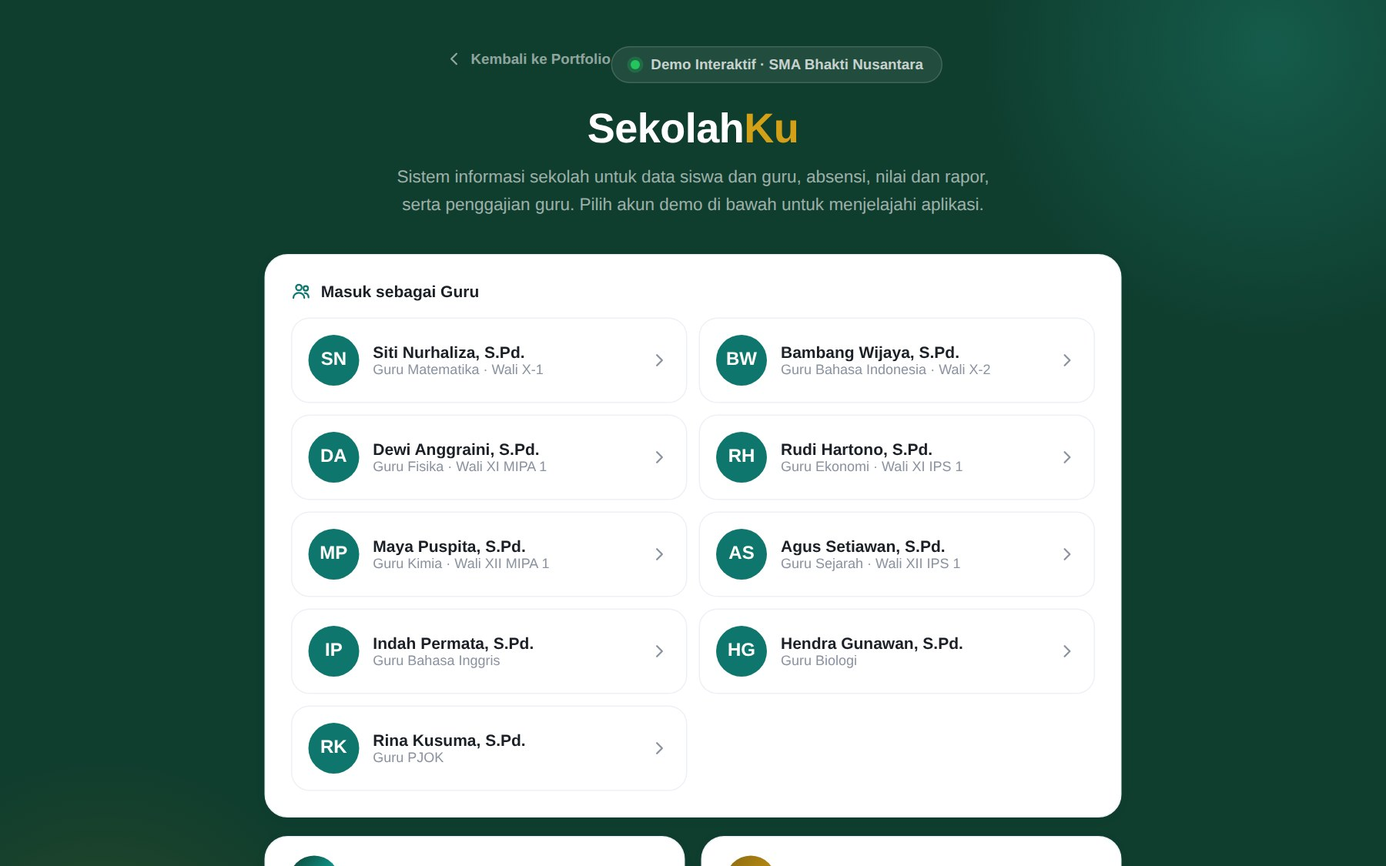
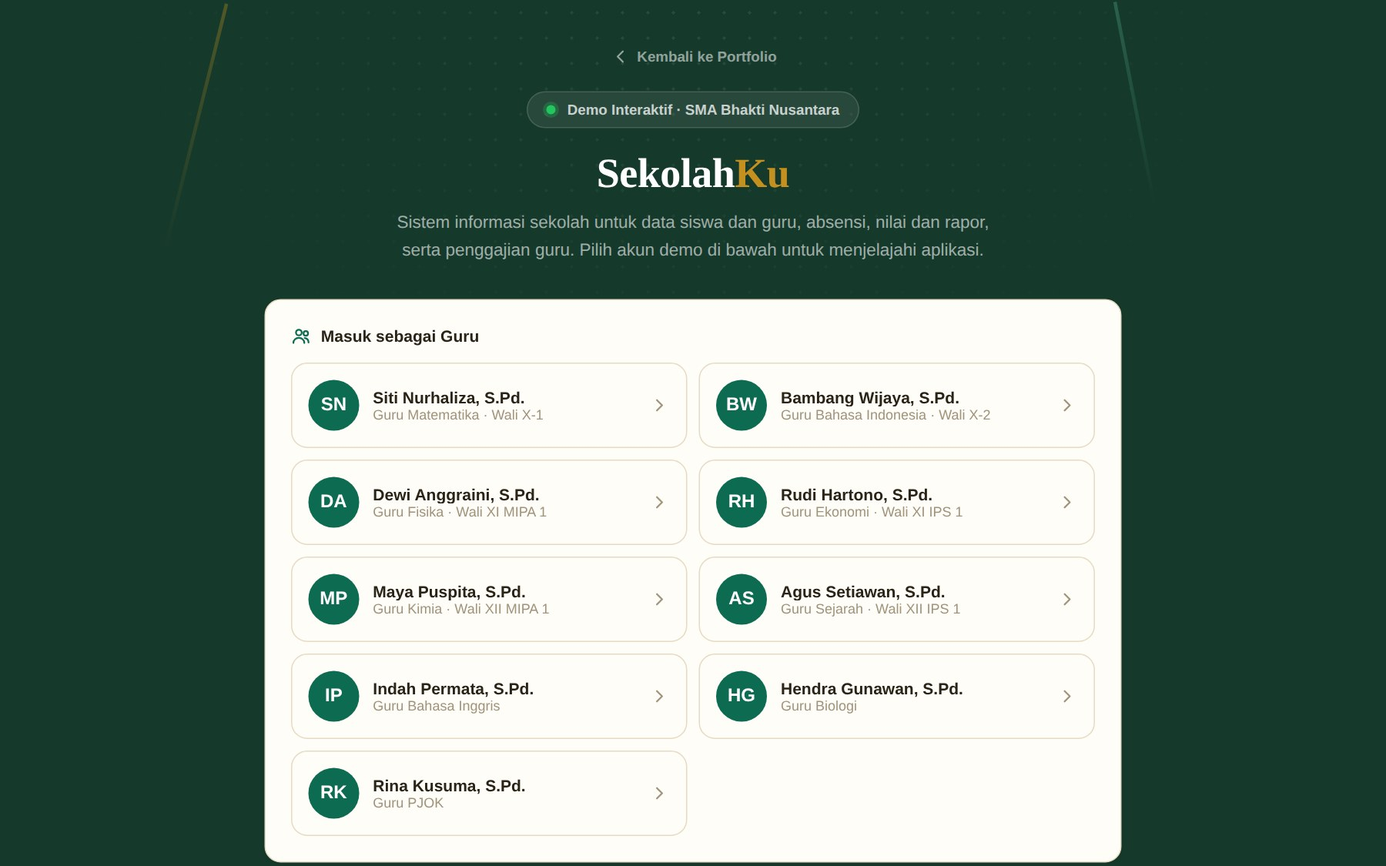
update

Changed region(s): [[0.1867, 0.0311, 0.8089, 1.0], [0.84, 0.0, 0.9956, 0.1867]]

diff --git a/demo/school-system/index.html b/demo/school-system/index.html
@@ -7,30 +7,30 @@
 <title>SekolahKu - SMA Bhakti Nusantara</title>
 <meta name="description" content="Demo sistem informasi sekolah SekolahKu untuk SMA Bhakti Nusantara. Data siswa dan guru, absensi, nilai dan rapor, penggajian guru, serta dashboard kepala sekolah.">
 <script src="https://cdn.jsdelivr.net/npm/chart.js"></script>
-<link href="https://fonts.googleapis.com/css2?family=Plus+Jakarta+Sans:ital,wght@0,300;0,400;0,500;0,600;0,700;0,800;1,400&family=Sora:wght@500;600;700;800&display=swap" rel="stylesheet">
+<link href="https://fonts.googleapis.com/css2?family=Figtree:ital,wght@0,300;0,400;0,500;0,600;0,700;0,800;1,400&family=Fraunces:opsz,wght@9..144,500;9..144,600;9..144,700;9..144,800&display=swap" rel="stylesheet">
 <style>
 :root {
-  --ink:#1b2027; --ink-soft:#565f6d; --muted:#8a92a0; --line:#e3e7ee; --line-soft:#edf0f5;
-  --surface:#ffffff; --bg:#f6f7fb; --bg-tint:#eef1fb;
-  --forest:#0f3d2e; --primary:#0f766e; --primary-2:#0d9488; --primary-3:#2dd4bf;
-  --primary-wash:#e8f7f5; --primary-wash-2:#d7f2ee;
-  --gold:#b8860b; --gold-soft:#d4a017; --gold-pale:#f7ecd0;
+  --ink:#2a2418; --ink-soft:#6b5d47; --muted:#a0937b; --line:#e6dac2; --line-soft:#f1e8d6;
+  --surface:#fffdf8; --bg:#f5efe1; --bg-tint:#ece0c6;
+  --forest:#15392b; --primary:#0d6b52; --primary-2:#0f8a68; --primary-3:#5cbd9a;
+  --primary-wash:#e6f3ec; --primary-wash-2:#d1ead9;
+  --gold:#a06f13; --gold-soft:#c4901f; --gold-pale:#f5e6c4;
   --ok:#15803d; --ok-bg:#e9f7ee; --ok-soft:#22c55e;
   --warn:#b45309; --warn-bg:#fef3e2; --warn-soft:#f59e0b;
   --danger:#b91c1c; --danger-bg:#fdedec; --danger-soft:#ef4444;
   --info:#0369a1; --info-bg:#e6f4fb;
   --grad-primary:linear-gradient(135deg,var(--forest),var(--primary-2) 55%,var(--primary-3));
-  --grad-gold:linear-gradient(135deg,#8a6a10,var(--gold-soft));
-  --shadow-sm:0 2px 8px rgba(15,61,46,0.07);
-  --shadow-md:0 8px 24px rgba(15,61,46,0.10);
-  --shadow-lg:0 20px 48px rgba(15,61,46,0.16);
-  --shadow-primary:0 10px 24px rgba(13,148,136,0.30);
-  --r-sm:10px; --r-md:14px; --r-lg:20px; --r-pill:999px;
+  --grad-gold:linear-gradient(135deg,#7a5209,var(--gold-soft));
+  --shadow-sm:0 1px 3px rgba(42,36,24,0.06);
+  --shadow-md:0 6px 18px rgba(42,36,24,0.09);
+  --shadow-lg:0 18px 42px rgba(21,57,43,0.18);
+  --shadow-primary:0 10px 22px rgba(13,107,82,0.28);
+  --r-sm:6px; --r-md:9px; --r-lg:14px; --r-pill:999px;
 }
 * { box-sizing:border-box; }
 html { scroll-behavior:smooth; }
-body { font-family:'Plus Jakarta Sans', sans-serif; background:var(--bg); color:var(--ink); margin:0; -webkit-font-smoothing:antialiased; }
-.font-display { font-family:'Sora', sans-serif; }
+body { font-family:'Figtree', sans-serif; background:var(--bg); color:var(--ink); margin:0; -webkit-font-smoothing:antialiased; }
+.font-display { font-family:'Fraunces', serif; font-optical-sizing:auto; }
 ::selection { background:var(--primary-wash-2); color:var(--forest); }
 ::-webkit-scrollbar { width:6px; height:6px; }
 ::-webkit-scrollbar-thumb { background:var(--primary-3); border-radius:4px; }
@@ -43,7 +43,7 @@ body { font-family:'Plus Jakarta Sans', sans-serif; background:var(--bg); color:
 @keyframes icspin { to { transform:rotate(360deg); } }
 
 .wrap { max-width:1180px; margin:0 auto; padding:0 20px; }
-.card-surface { background:var(--surface); border:1px solid var(--line-soft); border-radius:var(--r-lg); box-shadow:var(--shadow-sm); }
+.card-surface { background:var(--surface); border:1.5px solid var(--line); border-radius:var(--r-lg); box-shadow:var(--shadow-sm); }
 .fade-in { animation:fadeIn 0.35s ease both; }
 @keyframes fadeIn { from{opacity:0;transform:translateY(6px);} to{opacity:1;transform:translateY(0);} }
 
@@ -65,16 +65,32 @@ body { font-family:'Plus Jakarta Sans', sans-serif; background:var(--bg); color:
 .btn-icon { width:38px;height:38px;border-radius:50%;border:1.5px solid var(--line-soft);background:var(--surface);display:flex;align-items:center;justify-content:center;cursor:pointer;color:var(--ink-soft);transition:all 0.2s;padding:0;flex-shrink:0; }
 .btn-icon:hover { border-color:var(--primary-3);color:var(--primary); }
 
-.topbar { position:sticky;top:0;z-index:40;background:rgba(255,255,255,0.92);backdrop-filter:blur(10px);border-bottom:1px solid var(--line-soft); }
-.tab-row { display:flex;gap:4px;overflow-x:auto;scrollbar-width:none;-ms-overflow-style:none; }
-.tab-row::-webkit-scrollbar { display:none; }
-.tab-btn { display:inline-flex;align-items:center;gap:7px;padding:9px 15px;border-radius:var(--r-pill);font-size:13.5px;font-weight:700;color:var(--ink-soft);background:transparent;border:none;cursor:pointer;white-space:nowrap;transition:all 0.2s;font-family:inherit; }
-.tab-btn:hover:not(.active) { background:var(--bg-tint);color:var(--primary); }
-.tab-btn.active { background:var(--grad-primary);color:#fff;box-shadow:0 4px 14px rgba(13,148,136,0.3); }
+.topbar { position:sticky;top:0;z-index:40;background:var(--forest);border-bottom:1px solid rgba(255,255,255,0.08); }
+.topbar-sep { width:1px;align-self:stretch;background:rgba(255,255,255,0.14);flex-shrink:0;margin:2px 0; }
+.topbar-link { display:flex;align-items:center;gap:9px;text-decoration:none;color:#fff;flex-shrink:0; }
+.topbar-mark { width:32px;height:32px;border-radius:8px;background:rgba(255,255,255,0.1);border:1px solid rgba(255,255,255,0.16);display:flex;align-items:center;justify-content:center;color:var(--gold-soft);flex-shrink:0; }
+.topbar-nav { display:flex;gap:2px;overflow-x:auto;scrollbar-width:none;-ms-overflow-style:none; }
+.topbar-nav::-webkit-scrollbar { display:none; }
+.tab-btn { display:inline-flex;align-items:center;gap:6px;padding:9px 13px 8px;border-radius:0;font-size:13px;font-weight:600;color:rgba(255,255,255,0.62);background:transparent;border:none;border-bottom:2.5px solid transparent;cursor:pointer;white-space:nowrap;transition:all 0.2s;font-family:inherit; }
+.tab-btn:hover:not(.active) { color:#fff; }
+.tab-btn.active { color:#fff;font-weight:700;border-bottom-color:var(--gold-soft); }
+.topbar-name { font-weight:700;font-size:12.5px;line-height:1.2;white-space:nowrap;max-width:26vw;overflow:hidden;text-overflow:ellipsis;color:#fff; }
+.topbar-role { font-size:10.5px;line-height:1.2;white-space:nowrap;max-width:26vw;overflow:hidden;text-overflow:ellipsis;color:rgba(255,255,255,0.55); }
+.topbar .btn-icon { border-color:rgba(255,255,255,0.18);background:transparent;color:rgba(255,255,255,0.7); }
+.topbar .btn-icon:hover { border-color:var(--gold-soft);color:var(--gold-soft); }
+.topbar .avatar { box-shadow:0 0 0 2px rgba(255,255,255,0.22); }
+@media (max-width:900px) {
+  .topbar-user-text { display:none; }
+}
+@media (max-width:640px) {
+  .topbar-wordmark, .topbar-sep { display:none; }
+  .topbar .tab-btn .tab-label { display:none; }
+  .topbar .tab-btn { padding:9px 10px; }
+}
 
-.stat-tile { background:var(--surface);border:1px solid var(--line-soft);border-radius:var(--r-lg);padding:18px;box-shadow:var(--shadow-sm);position:relative;overflow:hidden; }
-.stat-tile::after { content:'';position:absolute;top:0;left:0;right:0;height:3px;background:var(--accent,var(--grad-primary)); }
-.stat-icon-badge { width:42px;height:42px;border-radius:12px;display:flex;align-items:center;justify-content:center;flex-shrink:0; }
+.stat-tile { background:var(--surface);border:1px solid var(--line);border-radius:var(--r-lg);padding:18px 18px 18px 22px;box-shadow:var(--shadow-sm);position:relative;overflow:hidden; }
+.stat-tile::after { content:'';position:absolute;top:0;left:0;bottom:0;width:4px;background:var(--accent,var(--grad-primary)); }
+.stat-icon-badge { width:42px;height:42px;border-radius:11px;display:flex;align-items:center;justify-content:center;flex-shrink:0; }
 
 .badge { display:inline-flex;align-items:center;gap:5px;padding:4px 11px;border-radius:var(--r-pill);font-size:11.5px;font-weight:700;letter-spacing:0.01em; }
 .badge-ok { background:var(--ok-bg);color:var(--ok); }
@@ -102,14 +118,14 @@ label.lbl { font-size:12.5px;font-weight:700;color:var(--ink-soft);display:block
 
 .avatar { width:40px;height:40px;border-radius:50%;display:flex;align-items:center;justify-content:center;font-weight:800;font-size:14px;color:#fff;flex-shrink:0; }
 
-.hero-card { background:var(--grad-primary);border-radius:24px;padding:28px 24px;color:#fff;position:relative;overflow:hidden;box-shadow:var(--shadow-lg); }
-.hero-card::before { content:'';position:absolute;width:280px;height:280px;border-radius:50%;background:rgba(255,255,255,0.06);top:-120px;right:-80px; }
-.hero-card::after { content:'';position:absolute;width:180px;height:180px;border-radius:50%;background:rgba(255,255,255,0.05);bottom:-90px;left:-40px; }
+.hero-card { background:var(--grad-primary);border-radius:var(--r-lg);padding:28px 24px;color:#fff;position:relative;overflow:hidden;box-shadow:var(--shadow-lg); }
+.hero-card::before { content:'';position:absolute;inset:0;background-image:radial-gradient(circle,rgba(255,255,255,0.18) 1.4px,transparent 1.4px);background-size:15px 15px;-webkit-mask-image:linear-gradient(120deg,transparent 38%,#000 92%);mask-image:linear-gradient(120deg,transparent 38%,#000 92%); }
+.hero-card::after { content:'';position:absolute;width:3px;height:56%;background:rgba(196,144,31,0.4);right:9%;top:22%;transform:rotate(11deg);border-radius:2px; }
 
 .modal-backdrop { position:fixed;inset:0;background:rgba(15,32,26,0.55);backdrop-filter:blur(2px);z-index:100;display:flex;align-items:center;justify-content:center;padding:16px;animation:fadeIn 0.2s ease; }
 .modal-box { background:var(--surface);border-radius:var(--r-lg);max-width:520px;width:100%;max-height:90vh;overflow-y:auto;box-shadow:var(--shadow-lg); }
 
-#toast-wrap { position:fixed;top:86px;right:18px;z-index:200;display:flex;flex-direction:column;gap:10px;max-width:calc(100vw - 36px); }
+#toast-wrap { position:fixed;bottom:22px;right:18px;z-index:200;display:flex;flex-direction:column;gap:10px;max-width:calc(100vw - 36px); }
 .toast { background:var(--forest);color:#fff;padding:13px 18px;border-radius:12px;font-size:13.5px;font-weight:600;box-shadow:var(--shadow-lg);display:flex;align-items:center;gap:10px;animation:toastIn 0.3s ease both;max-width:340px; }
 .toast.ok { background:linear-gradient(135deg,#166534,#22c55e); }
 .toast.warn { background:linear-gradient(135deg,#92400e,#f59e0b); }
@@ -356,7 +372,6 @@ function seedIfNeeded() {
       var day = addDays(today, -back);
       if (isWeekend(day)) continue;
       var iso = fmtDateISO(day);
-      if (iso === todayIso && g.id !== 'G9') continue; /* sisakan hari ini kosong utk sesi demo, kecuali satu contoh */
       var r = seededRand(g.id + iso + 'ag');
       var status, jamMasuk;
       if (r < 0.04) { status = 'Alpha'; jamMasuk = null; }
@@ -377,7 +392,10 @@ function seedIfNeeded() {
   });
   localStorage.setItem('sekolahku_absensi_guru', JSON.stringify(absGuru));
 
-  /* --- nilai: tugas & uts terisi, uas belum (baru pertengahan semester) --- */
+  /* --- nilai: tugas, uts, dan uas terisi penuh agar rapor & dashboard akademik langsung
+     menunjukkan data lengkap. Kelas X-1 sengaja disisakan tanpa UAS pada mapel Matematika
+     saja, supaya pengunjung yang login sebagai wali kelasnya (Siti Nurhaliza) tetap bisa
+     mencoba fitur input nilai secara langsung dan melihat nilai akhir terhitung otomatis. --- */
   var nilai = [];
   KELAS.forEach(function(k) {
     var mapels = mapelForKelas(k.id);
@@ -387,7 +405,9 @@ function seedIfNeeded() {
         var seed = s.id + m.mapelId;
         var tugas = 70 + Math.floor(seededRand(seed+'t') * 28);
         var uts = 65 + Math.floor(seededRand(seed+'u') * 32);
-        nilai.push({ id: uid('NL'), siswaId: s.id, kelasId: k.id, mapelId: m.mapelId, guruId: m.guruId, tahunAjaran: SCHOOL.tahunAjaran, semester: SCHOOL.semester, tugas: tugas, uts: uts, uas: null });
+        var uas = 70 + Math.floor(seededRand(seed+'a') * 28);
+        var isDemoKosong = (k.id === 'K1' && m.mapelId === 'M1');
+        nilai.push({ id: uid('NL'), siswaId: s.id, kelasId: k.id, mapelId: m.mapelId, guruId: m.guruId, tahunAjaran: SCHOOL.tahunAjaran, semester: SCHOOL.semester, tugas: tugas, uts: uts, uas: isDemoKosong ? null : uas });
       });
     });
   });
@@ -597,19 +617,20 @@ function closeModal() { document.getElementById('modal-root').innerHTML = ''; sl
 function buildLogin() {
   var guruCards = GURU.map(function(g) {
     var wk = isWaliKelas(g.id);
-    return '<button onclick="loginAsGuru(\'' + g.id + '\')" style="text-align:left;background:var(--surface);border:1.5px solid var(--line-soft);border-radius:16px;padding:14px;display:flex;align-items:center;gap:12px;cursor:pointer;transition:all 0.2s;font-family:inherit;width:100%;" onmouseover="this.style.borderColor=\'var(--primary-3)\';this.style.boxShadow=\'var(--shadow-md)\';this.style.transform=\'translateY(-2px)\';" onmouseout="this.style.borderColor=\'var(--line-soft)\';this.style.boxShadow=\'none\';this.style.transform=\'none\';">' +
+    return '<button onclick="loginAsGuru(\'' + g.id + '\')" style="text-align:left;background:var(--surface);border:1.5px solid var(--line);border-radius:var(--r-lg);padding:14px;display:flex;align-items:center;gap:12px;cursor:pointer;transition:all 0.2s;font-family:inherit;width:100%;" onmouseover="this.style.borderColor=\'var(--primary-3)\';this.style.boxShadow=\'var(--shadow-md)\';this.style.transform=\'translateY(-2px)\';" onmouseout="this.style.borderColor=\'var(--line)\';this.style.boxShadow=\'none\';this.style.transform=\'none\';">' +
       avatarHtml(g, 44) +
       '<div style="min-width:0;flex:1;"><div style="font-weight:700;font-size:14px;color:var(--ink);white-space:nowrap;overflow:hidden;text-overflow:ellipsis;">' + escapeHtml(g.nama) + '</div><div style="font-size:12px;color:var(--muted);white-space:nowrap;overflow:hidden;text-overflow:ellipsis;">' + escapeHtml(g.gelar) + (wk ? ' &middot; Wali ' + wk.nama : '') + '</div></div>' +
       icon('chevronR', 'ic-muted') +
       '</button>';
   }).join('');
   return '<div style="min-height:100vh;background:var(--forest);position:relative;overflow:hidden;display:flex;align-items:center;padding:40px 0;">' +
-    '<div style="position:absolute;width:520px;height:520px;border-radius:50%;background:radial-gradient(circle,rgba(45,212,191,0.20),transparent 70%);top:-220px;right:-160px;"></div>' +
-    '<div style="position:absolute;width:420px;height:420px;border-radius:50%;background:radial-gradient(circle,rgba(184,134,11,0.16),transparent 70%);bottom:-180px;left:-120px;"></div>' +
+    '<div style="position:absolute;inset:0;background-image:radial-gradient(circle,rgba(255,255,255,0.09) 1.4px,transparent 1.4px);background-size:22px 22px;-webkit-mask-image:radial-gradient(ellipse 60% 55% at 50% 0%,#000 0%,transparent 72%);mask-image:radial-gradient(ellipse 60% 55% at 50% 0%,#000 0%,transparent 72%);"></div>' +
+    '<div style="position:absolute;width:3px;height:220px;background:linear-gradient(rgba(196,144,31,0.35),transparent);top:0;left:14%;transform:rotate(14deg);"></div>' +
+    '<div style="position:absolute;width:3px;height:180px;background:linear-gradient(rgba(92,189,154,0.3),transparent);top:0;right:18%;transform:rotate(-11deg);"></div>' +
     '<div class="wrap" style="position:relative;z-index:1;">' +
     '<div style="max-width:920px;margin:0 auto;">' +
     '<div style="text-align:center;margin-bottom:30px;">' +
-    '<a href="https://bagasaria93.github.io" style="display:inline-flex;align-items:center;gap:6px;color:rgba(255,255,255,0.55);font-size:12.5px;font-weight:600;text-decoration:none;margin-bottom:22px;">' + icon('chevronL') + ' Kembali ke Portfolio</a>' +
+    '<div style="margin-bottom:16px;"><a href="https://bagasaria93.github.io" style="display:inline-flex;align-items:center;gap:6px;color:rgba(255,255,255,0.55);font-size:12.5px;font-weight:600;text-decoration:none;">' + icon('chevronL') + ' Kembali ke Portfolio</a></div>' +
     '<div style="display:inline-flex;align-items:center;gap:10px;background:rgba(255,255,255,0.08);border:1px solid rgba(255,255,255,0.14);padding:8px 16px;border-radius:99px;margin-bottom:18px;">' +
     '<span style="width:8px;height:8px;border-radius:50%;background:#22c55e;display:inline-block;box-shadow:0 0 0 3px rgba(34,197,94,0.25);"></span>' +
     '<span style="color:rgba(255,255,255,0.75);font-size:12.5px;font-weight:600;">Demo Interaktif &middot; ' + SCHOOL.nama + '</span></div>' +
@@ -647,27 +668,28 @@ function buildTopbar() {
   var tabs = tabsByRole[state.role];
   var subtitle = state.role === 'admin' ? user.gelar : (state.role === 'kepsek' ? user.gelar : user.gelar);
   var tabsHtml = tabs.map(function(t) {
-    return '<button class="tab-btn ' + (state.tab === t[0] ? 'active' : '') + '" onclick="setTab(\'' + t[0] + '\')">' + icon(t[1]) + '<span>' + t[2] + '</span></button>';
+    return '<button class="tab-btn ' + (state.tab === t[0] ? 'active' : '') + '" onclick="setTab(\'' + t[0] + '\')">' + icon(t[1]) + '<span class="tab-label">' + t[2] + '</span></button>';
   }).join('');
   return '<div class="topbar">' +
-    '<div class="wrap" style="padding-top:14px;padding-bottom:0;">' +
-    '<div style="display:flex;align-items:center;justify-content:space-between;gap:12px;margin-bottom:12px;">' +
-    '<a href="https://bagasaria93.github.io" style="display:flex;align-items:center;gap:9px;text-decoration:none;color:var(--ink);">' +
-    '<div style="width:34px;height:34px;border-radius:10px;background:var(--grad-primary);display:flex;align-items:center;justify-content:center;color:#fff;flex-shrink:0;">' + icon('school') + '</div>' +
-    '<span class="font-display" style="font-weight:800;font-size:16.5px;">Sekolah<span style="color:var(--primary);">Ku</span></span>' +
+    '<div class="wrap" style="padding-top:11px;padding-bottom:11px;">' +
+    '<div style="display:flex;align-items:center;gap:16px;">' +
+    '<a href="https://bagasaria93.github.io" class="topbar-link">' +
+    '<div class="topbar-mark">' + icon('school') + '</div>' +
+    '<span class="font-display topbar-wordmark" style="font-weight:700;font-size:16px;">Sekolah<span style="color:var(--gold-soft);">Ku</span></span>' +
     '</a>' +
-    '<div style="display:flex;align-items:center;gap:10px;">' +
-    '<div style="display:flex;align-items:center;gap:9px;">' +
-    avatarHtml(user, 34) +
-    '<div style="text-align:right;">' +
-    '<div style="font-weight:700;font-size:13px;line-height:1.2;white-space:nowrap;max-width:38vw;overflow:hidden;text-overflow:ellipsis;">' + escapeHtml(user.nama) + '</div>' +
-    '<div style="font-size:11px;color:var(--muted);line-height:1.2;">' + escapeHtml(subtitle) + '</div>' +
+    '<div class="topbar-sep"></div>' +
+    '<nav class="topbar-nav" style="flex:1;min-width:0;">' + tabsHtml + '</nav>' +
+    '<div style="display:flex;align-items:center;gap:10px;flex-shrink:0;">' +
+    '<div class="topbar-user" style="display:flex;align-items:center;gap:9px;">' +
+    avatarHtml(user, 32) +
+    '<div class="topbar-user-text" style="text-align:right;">' +
+    '<div class="topbar-name">' + escapeHtml(user.nama) + '</div>' +
+    '<div class="topbar-role">' + escapeHtml(subtitle) + '</div>' +
     '</div>' +
     '</div>' +
     '<button class="btn-icon" onclick="logout()" title="Keluar">' + icon('logout') + '</button>' +
     '</div>' +
     '</div>' +
-    '<div class="tab-row" style="padding-bottom:11px;">' + tabsHtml + '</div>' +
     '</div></div>';
 }
 function buildFooter() {
@@ -682,16 +704,17 @@ function buildFooter() {
 function buildGuruBeranda() {
   var g = state.currentUser;
   var wk = isWaliKelas(g.id);
-  var todayIso = fmtDateISO(new Date());
   var jadwalRows = g.jadwal.map(function(j) {
     var k = getKelas(j.kelasId), m = getMapel(j.mapelId);
     return '<tr><td><span style="display:inline-flex;align-items:center;gap:8px;"><span style="width:8px;height:8px;border-radius:50%;background:' + kelasColor(k) + ';display:inline-block;"></span>' + escapeHtml(k.nama) + '</span></td><td>' + escapeHtml(m.nama) + '</td><td>' + j.jp + ' JP/minggu</td></tr>';
   }).join('');
 
   var absGuru = getAbsensiGuru().filter(function(a){ return a.guruId === g.id; });
-  var thisMonth = absGuru.filter(function(a){ return a.tanggal.slice(0,7) === todayIso.slice(0,7); });
-  var hadirCount = thisMonth.filter(function(a){ return a.status === 'Hadir' || a.status === 'Terlambat'; }).length;
-  var telatCount = thisMonth.filter(function(a){ return a.status === 'Terlambat'; }).length;
+  var last30 = [];
+  for (var bi = 29; bi >= 0; bi--) { last30.push(fmtDateISO(addDays(new Date(), -bi))); }
+  var recent = absGuru.filter(function(a){ return last30.indexOf(a.tanggal) !== -1; });
+  var hadirCount = recent.filter(function(a){ return a.status === 'Hadir' || a.status === 'Terlambat'; }).length;
+  var telatCount = recent.filter(function(a){ return a.status === 'Terlambat'; }).length;
 
   var statTile = function(label, value, iconName, accent) {
     return '<div class="stat-tile" style="--accent:' + accent + ';">' +
@@ -712,8 +735,8 @@ function buildGuruBeranda() {
     '<div><div style="color:rgba(255,255,255,0.6);font-size:11px;font-weight:700;text-transform:uppercase;">Kelas Diampu</div><div style="color:#fff;font-weight:800;font-size:20px;">' + kelasOfGuru(g.id).length + ' kelas</div></div>' +
     '</div></div></div>' +
     '<div class="stat-grid-4" style="display:grid;grid-template-columns:repeat(2,1fr);gap:14px;margin-bottom:18px;">' +
-    statTile('Hadir Mengajar Bulan Ini', hadirCount, 'checkCircle', '#15803d') +
-    statTile('Terlambat', telatCount, 'bell', '#b45309') +
+    statTile('Hadir Mengajar (30 Hari)', hadirCount, 'checkCircle', '#15803d') +
+    statTile('Terlambat (30 Hari)', telatCount, 'bell', '#b45309') +
     '</div>' +
     '<div class="card-surface" style="padding:20px;">' +
     '<div style="display:flex;align-items:center;gap:9px;margin-bottom:14px;">' + icon('calendar','ic-primary') + '<span style="font-weight:800;font-size:14.5px;">Jadwal Mengajar</span></div>' +
@@ -867,7 +890,13 @@ function buildGuruSlipGaji() {
   var bulanLabel = BULAN_ID[d.getMonth()] + ' ' + d.getFullYear();
   var gs = getGajiStatus();
   var status = gs[g.id + '_' + state.gajiBulan] || 'Belum Dibayar';
-  return '<div class="fade-in" style="max-width:480px;">' +
+
+  var jadwalRows = g.jadwal.map(function(j) {
+    var k = getKelas(j.kelasId), m = getMapel(j.mapelId);
+    return '<tr><td><span style="display:inline-flex;align-items:center;gap:8px;"><span style="width:8px;height:8px;border-radius:50%;background:' + kelasColor(k) + ';display:inline-block;"></span>' + escapeHtml(k.nama) + '</span></td><td>' + escapeHtml(m.nama) + '</td><td style="text-align:right;">' + j.jp + ' JP</td></tr>';
+  }).join('');
+
+  return '<div class="fade-in split-grid" style="grid-template-columns:1.05fr 0.95fr;align-items:start;">' +
     '<div class="card-surface" style="padding:22px;">' +
     '<div style="display:flex;align-items:center;justify-content:space-between;gap:10px;margin-bottom:4px;">' +
     '<div style="display:flex;align-items:center;gap:6px;"><button class="btn-icon" onclick="changeGajiBulan(-1)">' + icon('chevronL') + '</button><span style="font-weight:800;font-size:14.5px;min-width:130px;text-align:center;">' + bulanLabel + '</span><button class="btn-icon" onclick="changeGajiBulan(1)">' + icon('chevronR') + '</button></div>' +
@@ -887,7 +916,22 @@ function buildGuruSlipGaji() {
     rowGaji('Gaji Bersih Diterima', fmtRupiah(gaji.bersih), true, true) +
     '</div>' +
     '<button class="btn btn-secondary btn-block" style="margin-top:18px;" onclick="window.print()">' + icon('print') + ' Cetak Slip Gaji</button>' +
-    '</div></div>';
+    '</div>' +
+    '<div class="card-surface" style="padding:22px;">' +
+    '<div style="display:flex;align-items:center;gap:9px;margin-bottom:14px;">' + icon('calendar','ic-primary') + '<span style="font-weight:800;font-size:14.5px;">Rincian Jam Mengajar</span></div>' +
+    '<div class="tbl-wrap"><table class="tbl"><thead><tr><th>Kelas</th><th>Mata Pelajaran</th><th style="text-align:right;">Beban</th></tr></thead><tbody>' + jadwalRows + '</tbody></table></div>' +
+    '<div class="divider" style="margin:14px 0;"></div>' +
+    '<div style="display:flex;align-items:center;justify-content:space-between;font-size:13.5px;">' +
+    '<span style="color:var(--ink-soft);">Total Beban Mengajar</span>' +
+    '<span style="font-weight:800;">' + gaji.jp + ' JP/minggu</span>' +
+    '</div>' +
+    '<div style="display:flex;align-items:center;justify-content:space-between;font-size:13.5px;margin-top:8px;">' +
+    '<span style="color:var(--ink-soft);">Tarif per Jam Pelajaran</span>' +
+    '<span style="font-weight:800;">' + fmtRupiah(RATE_PER_JAM()) + '</span>' +
+    '</div>' +
+    '<p style="font-size:11.5px;color:var(--muted);margin-top:14px;">Tunjangan jam mengajar dihitung dari total beban mengajar per minggu dikali 4 minggu dikali tarif per jam pelajaran.</p>' +
+    '</div>' +
+    '</div>';
 }
 
 /* ============================= ADMIN: RINGKASAN ============================= */
@@ -1272,6 +1316,7 @@ function renderCharts() {
 
 /* ============================= MAIN RENDER ============================= */
 function render() {
+  window.scrollTo(0, 0);
   var app = document.getElementById('app');
   if (state.view === 'login') { app.innerHTML = buildLogin() + '<div id="modal-root"></div>'; return; }
   var body = '';

diff --git a/demo/attendance-system/index.html b/demo/attendance-system/index.html
@@ -71,9 +71,19 @@ body { font-family:'Plus Jakarta Sans', sans-serif; background:var(--bg); color:
 .topbar { position:sticky;top:0;z-index:40;background:rgba(255,255,255,0.92);backdrop-filter:blur(10px);border-bottom:1px solid var(--line-soft); }
 .tab-row { display:flex;gap:4px;overflow-x:auto;scrollbar-width:none;-ms-overflow-style:none; }
 .tab-row::-webkit-scrollbar { display:none; }
-.tab-btn { display:inline-flex;align-items:center;gap:7px;padding:9px 15px;border-radius:var(--r-pill);font-size:13.5px;font-weight:700;color:var(--ink-soft);background:transparent;border:none;cursor:pointer;white-space:nowrap;transition:all 0.2s;font-family:inherit; }
-.tab-btn:hover:not(.active) { background:var(--bg-tint);color:var(--primary); }
-.tab-btn.active { background:var(--grad-primary);color:#fff;box-shadow:0 4px 14px rgba(55,48,163,0.3); }
+.tab-group { display:flex;align-items:center;gap:2px;background:var(--bg-tint);border-radius:var(--r-pill);padding:4px;overflow-x:auto;scrollbar-width:none;-ms-overflow-style:none; }
+.tab-group::-webkit-scrollbar { display:none; }
+.tab-btn { display:inline-flex;align-items:center;gap:6px;padding:7px 13px;border-radius:var(--r-pill);font-size:12.5px;font-weight:700;color:var(--ink-soft);background:transparent;border:none;cursor:pointer;white-space:nowrap;transition:all 0.2s;font-family:inherit; }
+.tab-btn:hover:not(.active) { color:var(--primary); }
+.tab-btn.active { background:var(--surface);color:var(--primary);box-shadow:var(--shadow-sm); }
+@media (max-width:900px) {
+  .topbar-user-text { display:none; }
+}
+@media (max-width:640px) {
+  .topbar-wordmark { display:none; }
+  .topbar .tab-btn .tab-label { display:none; }
+  .topbar .tab-btn { padding:8px 9px; }
+}
 
 /* ---- stat tiles ---- */
 .stat-tile { background:var(--surface);border:1px solid var(--line-soft);border-radius:var(--r-lg);padding:18px;box-shadow:var(--shadow-sm);position:relative;overflow:hidden; }
@@ -126,7 +136,7 @@ label.lbl { font-size:12.5px;font-weight:700;color:var(--ink-soft);display:block
 .modal-box { background:var(--surface);border-radius:var(--r-lg);max-width:480px;width:100%;max-height:90vh;overflow-y:auto;box-shadow:var(--shadow-lg); }
 
 /* ---- toast ---- */
-#toast-wrap { position:fixed;top:86px;right:18px;z-index:200;display:flex;flex-direction:column;gap:10px;max-width:calc(100vw - 36px); }
+#toast-wrap { position:fixed;bottom:22px;right:18px;z-index:200;display:flex;flex-direction:column;gap:10px;max-width:calc(100vw - 36px); }
 .toast { background:var(--navy);color:#fff;padding:13px 18px;border-radius:12px;font-size:13.5px;font-weight:600;box-shadow:var(--shadow-lg);display:flex;align-items:center;gap:10px;animation:toastIn 0.3s ease both;max-width:340px; }
 .toast.ok { background:linear-gradient(135deg,#166534,#22c55e); }
 .toast.warn { background:linear-gradient(135deg,#92400e,#f59e0b); }
@@ -542,7 +552,7 @@ function buildLogin() {
     '<div class="wrap" style="position:relative;z-index:1;">' +
     '<div style="max-width:920px;margin:0 auto;">' +
     '<div style="text-align:center;margin-bottom:34px;">' +
-    '<a href="https://bagasaria93.github.io" style="display:inline-flex;align-items:center;gap:6px;color:rgba(255,255,255,0.55);font-size:12.5px;font-weight:600;text-decoration:none;margin-bottom:22px;">' + icon('chevronL') + ' Kembali ke Portfolio</a>' +
+    '<div style="margin-bottom:16px;"><a href="https://bagasaria93.github.io" style="display:inline-flex;align-items:center;gap:6px;color:rgba(255,255,255,0.55);font-size:12.5px;font-weight:600;text-decoration:none;">' + icon('chevronL') + ' Kembali ke Portfolio</a></div>' +
     '<div style="display:inline-flex;align-items:center;gap:10px;background:rgba(255,255,255,0.08);border:1px solid rgba(255,255,255,0.14);padding:8px 16px;border-radius:99px;margin-bottom:18px;">' +
     '<span style="width:8px;height:8px;border-radius:50%;background:#22c55e;display:inline-block;box-shadow:0 0 0 3px rgba(34,197,94,0.25);"></span>' +
     '<span style="color:rgba(255,255,255,0.75);font-size:12.5px;font-weight:600;">Demo Interaktif &middot; ' + COMPANY.nama + '</span></div>' +
@@ -576,29 +586,27 @@ function buildTopbar() {
   var tabsHtml = tabs.map(function(t) {
     var pendingCount = 0;
     if (isAdmin && t[0] === 'approval') { pendingCount = getLeaves().filter(function(l){ return l.status === 'Menunggu'; }).length; }
-    return '<button class="tab-btn ' + (activeTab === t[0] ? 'active' : '') + '" onclick="' + (isAdmin ? 'setAdminTab' : 'setEmpTab') + '(\'' + t[0] + '\')">' + icon(t[1]) + '<span>' + t[2] + '</span>' + (pendingCount ? '<span class="badge badge-danger" style="padding:1px 7px;font-size:10.5px;margin-left:2px;">' + pendingCount + '</span>' : '') + '</button>';
+    return '<button class="tab-btn ' + (activeTab === t[0] ? 'active' : '') + '" onclick="' + (isAdmin ? 'setAdminTab' : 'setEmpTab') + '(\'' + t[0] + '\')">' + icon(t[1]) + '<span class="tab-label">' + t[2] + '</span>' + (pendingCount ? '<span class="badge badge-danger" style="padding:1px 7px;font-size:10.5px;margin-left:2px;">' + pendingCount + '</span>' : '') + '</button>';
   }).join('');
   return '<div class="topbar">' +
-    '<div class="wrap" style="padding-top:14px;padding-bottom:0;">' +
-    '<div style="display:flex;align-items:center;justify-content:space-between;gap:12px;margin-bottom:12px;">' +
-    '<a href="https://bagasaria93.github.io" style="display:flex;align-items:center;gap:9px;text-decoration:none;color:var(--ink);">' +
-    '<div style="width:34px;height:34px;border-radius:10px;background:var(--grad-primary);display:flex;align-items:center;justify-content:center;color:#fff;flex-shrink:0;">' + icon('clockIn') + '</div>' +
-    '<span class="font-display" style="font-weight:800;font-size:16.5px;">Absen<span style="color:var(--primary);">Ku</span></span>' +
+    '<div class="wrap" style="padding-top:11px;padding-bottom:11px;">' +
+    '<div style="display:flex;align-items:center;gap:16px;">' +
+    '<a href="https://bagasaria93.github.io" style="display:flex;align-items:center;gap:9px;text-decoration:none;color:var(--ink);flex-shrink:0;">' +
+    '<div style="width:32px;height:32px;border-radius:9px;background:var(--grad-primary);display:flex;align-items:center;justify-content:center;color:#fff;flex-shrink:0;">' + icon('clockIn') + '</div>' +
+    '<span class="font-display topbar-wordmark" style="font-weight:800;font-size:16px;">Absen<span style="color:var(--primary);">Ku</span></span>' +
     '</a>' +
-    '<div style="display:flex;align-items:center;gap:10px;">' +
-    '<button class="btn btn-ghost btn-sm" onclick="switchTo(\'' + (isAdmin ? 'employee' : 'admin') + '\')" style="display:none;" id="btn-role-switch"></button>' +
-    '<div style="display:flex;align-items:center;gap:9px;">' +
-    avatarHtml(emp, 34) +
-    '<div style="display:none;" class="sm-only"></div>' +
-    '<div style="text-align:right;">' +
-    '<div style="font-weight:700;font-size:13px;line-height:1.2;">' + escapeHtml(emp.nama) + '</div>' +
-    '<div style="font-size:11px;color:var(--muted);line-height:1.2;">' + escapeHtml(isAdmin ? 'Admin HR' : emp.jabatan) + '</div>' +
+    '<nav class="tab-group" style="flex:1;min-width:0;">' + tabsHtml + '</nav>' +
+    '<div style="display:flex;align-items:center;gap:10px;flex-shrink:0;">' +
+    '<div class="topbar-user" style="display:flex;align-items:center;gap:9px;">' +
+    avatarHtml(emp, 32) +
+    '<div class="topbar-user-text" style="text-align:right;">' +
+    '<div style="font-weight:700;font-size:12.5px;line-height:1.2;white-space:nowrap;max-width:26vw;overflow:hidden;text-overflow:ellipsis;">' + escapeHtml(emp.nama) + '</div>' +
+    '<div style="font-size:10.5px;color:var(--muted);line-height:1.2;white-space:nowrap;max-width:26vw;overflow:hidden;text-overflow:ellipsis;">' + escapeHtml(isAdmin ? 'Admin HR' : emp.jabatan) + '</div>' +
     '</div>' +
     '</div>' +
     '<button class="btn-icon" onclick="logout()" title="Keluar">' + icon('logout') + '</button>' +
     '</div>' +
     '</div>' +
-    '<div class="tab-row" style="padding-bottom:11px;">' + tabsHtml + '</div>' +
     '</div></div>';
 }
 
@@ -1053,6 +1061,7 @@ function renderCharts() {
 
 /* ============================= MAIN RENDER ============================= */
 function render() {
+  window.scrollTo(0, 0);
   var app = document.getElementById('app');
   if (state.view === 'login') { app.innerHTML = buildLogin() + '<div id="modal-root"></div>'; return; }
   var body = '';
